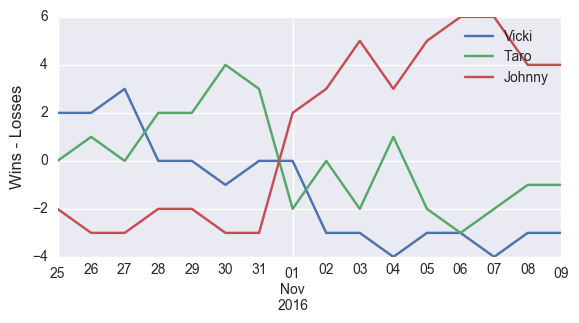
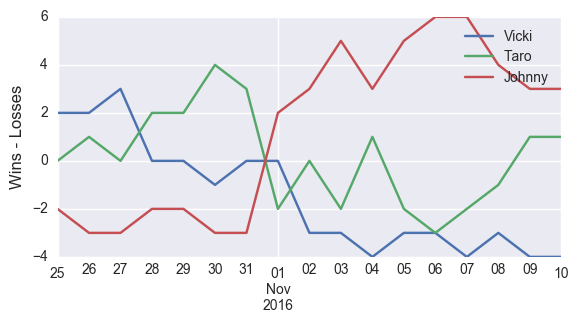
update 11/10

diff --git a/index.html b/index.html
@@ -35,7 +35,7 @@
 <a id="the-bet-is-on" class="anchor" href="#the-bet-is-on" aria-hidden="true"><span aria-hidden="true" class="octicon octicon-link"></span></a>The bet is on.</h1>
 
 <h1>
-<a id="current-winner-of-2016-17-season" class="anchor" href="#current-winner-of-2016-17-season" aria-hidden="true"><span aria-hidden="true" class="octicon octicon-link"></span></a>Current winner of 2016-17 Season (as of 11/9/2016):</h1>
+<a id="current-winner-of-2016-17-season" class="anchor" href="#current-winner-of-2016-17-season" aria-hidden="true"><span aria-hidden="true" class="octicon octicon-link"></span></a>Current winner of 2016-17 Season (as of 11/10/2016):</h1>
 
 <h2>
 <a id="none" class="anchor" href="#none" aria-hidden="true"><span aria-hidden="true" class="octicon octicon-link"></span></a><strong>Johnny</strong>
@@ -44,23 +44,23 @@
 <h2>
 <a id="johnny" class="anchor" href="#johnny" aria-hidden="true"><span aria-hidden="true" class="octicon octicon-link"></span></a>Johnny</h2>
 
-<p>Wins: 37<br>
-Losses: 33<br>
-Remaining wins available: 636</p>
+<p>Wins: 40<br>
+Losses: 37<br>
+Remaining wins available: 630</p>
 
 <h2>
 <a id="taro" class="anchor" href="#taro" aria-hidden="true"><span aria-hidden="true" class="octicon octicon-link"></span></a>Taro</h2>
 
-<p>Wins: 34<br>
-Losses: 35<br>
-Remaining wins available: 634</p>
+<p>Wins: 39<br>
+Losses: 38<br>
+Remaining wins available: 629</p>
 
 <h2>
 <a id="vicki" class="anchor" href="#vicki" aria-hidden="true"><span aria-hidden="true" class="octicon octicon-link"></span></a>Vicki</h2>
 
-<p>Wins: 34<br>
-Losses: 37<br>
-Remaining wins available: 636</p>
+<p>Wins: 37<br>
+Losses: 41<br>
+Remaining wins available: 631</p>
 
 <img src='pythoncode/win_percent.png' alt='Winning Percentage Over Time'>
 <h1>
